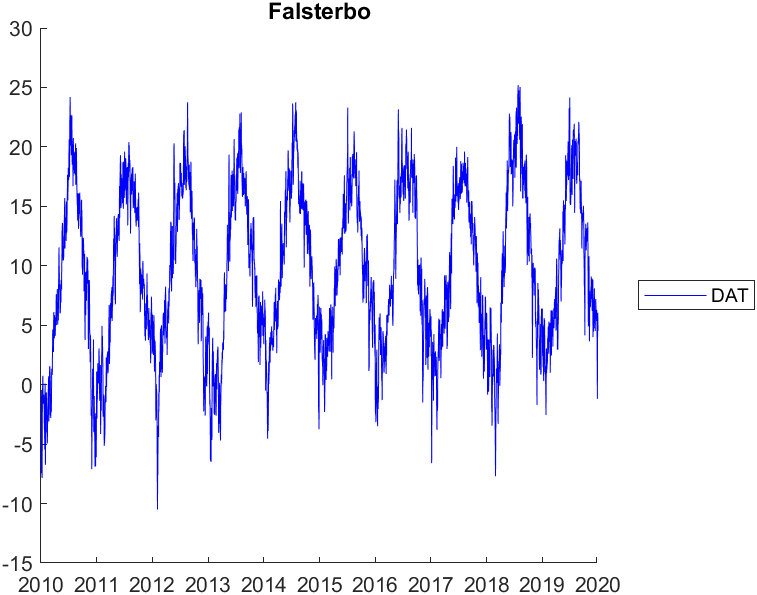
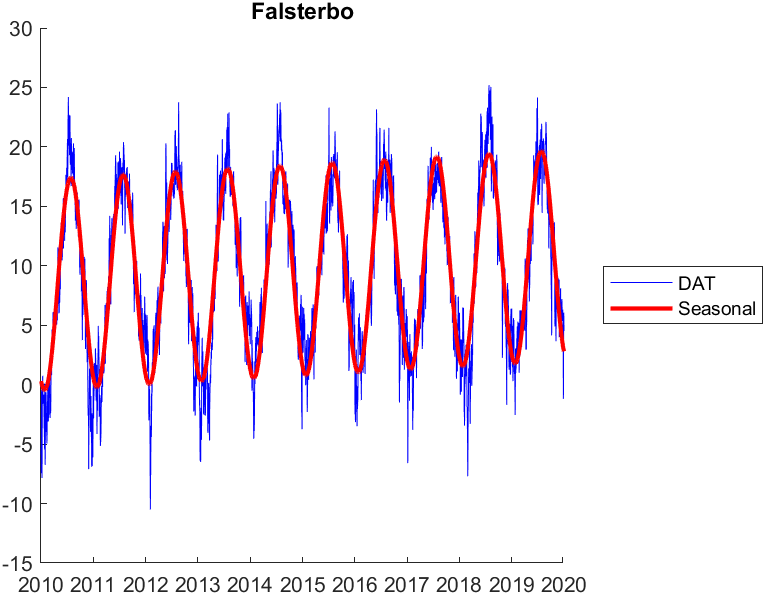
Improved speed by date selection and parsing. Added NaN check.

diff --git a/ProjectWrapper.m b/ProjectWrapper.m
@@ -31,6 +31,11 @@ for k = 1 : length(Sets) % Iterate to load all chosen data sets
     Sets(1, k).DataSet.Properties.VariableNames = {'Date', 'Time', 'Degrees', 'Quality'};
     Sets(1, k).DataSet.Date.Format = 'default';
     Sets(1, k).DataSet.Date = Sets(1,k).DataSet.Date + Sets(1,k).DataSet.Time;
+    Sets(1, k).DataSet.Time = []; % Remove now unneeded time column
+    
+    %Sets(1, k).DataSet = Sets(1, k).DataSet(timerange('2005-01-01', '2019-12-31'),:);
+    Sets(1, k).DataSet = Sets(1, k).DataSet(Sets(1, k).DataSet.Date >= datetime(2005,01,01), :);
+    
     Sets(1, k).Clean = timetable(Sets(1,k).DataSet.Date, Sets(1,k).DataSet.Degrees, Sets(1,k).DataSet.Quality);
     Sets(1, k).Clean.Properties.VariableNames = {'Degrees', 'Quality'};
     
@@ -48,11 +53,20 @@ Sets(1,1).DateStart = datetime(2010,1,1);
 Sets(1,1).DateEnd = datetime(2020,1,1);
 for k = 1 : length(Sets) % Iterate to parse all chosen data sets
     % TODO: Filter by dates here
-
+    
     Sets(1, k).Clean = DailyAverage(Sets(1, k).Clean(:,1), settings.avgType);
     Sets(1, k).Clean = Sets(1, k).Clean(~IsLeapDay(Sets(1, k).Clean.Time),:);
 end
 
+% Check for nans
+for k = 1 : length(Sets)
+    n = sum(isnan(Sets(1, k).Clean.Degrees));
+    if n ~= 0
+        fprintf(2, sprintf('Set %s contains %d NaN values.\n', Sets(1, k).ShortName, n))
+    end
+end
+
+clear k
 %% Deseasoning
 % Remove the seasonal component of the temperature
 seasonFunction = @(a0, a1, a2, a3, t) a0 + a1 * t + a2 * sin(2 * pi / 365 * (t - a3));% + a1 * (sin(2 * pi / 365 * t)).^0.1;
@@ -77,7 +91,7 @@ close ALL
 % Settings for figures
 showFigures = true;
 saveFigures = true;
-showSeason = false;
+showSeason = true;
 showTref = false;
 showLinTrend = false;
 

diff --git a/Settings.m b/Settings.m
@@ -6,11 +6,11 @@ classdef Settings
     %       N = Number of simulations
     %       avgType = Method used for DAT calculation
     %       fminconOptions = Options for optimization solver
-   properties (Constant)
-      N = 10000
-      %D = 1/NamedConst.R
-      avgType = 'MinMax' % Set average type DAT series, toggle 'MinMax' or ' Mean'
-      fminconOptions = optimoptions('fmincon', 'Display', 'off')
-
-   end
+    properties (Constant)
+        N = 10000
+        %D = 1/NamedConst.R
+        avgType = 'MinMax' % Set average type DAT series, toggle 'MinMax' or ' Mean'
+        fminconOptions = optimoptions('fmincon', 'Display', 'off')
+        rndSeed = 'Default'
+    end
 end
